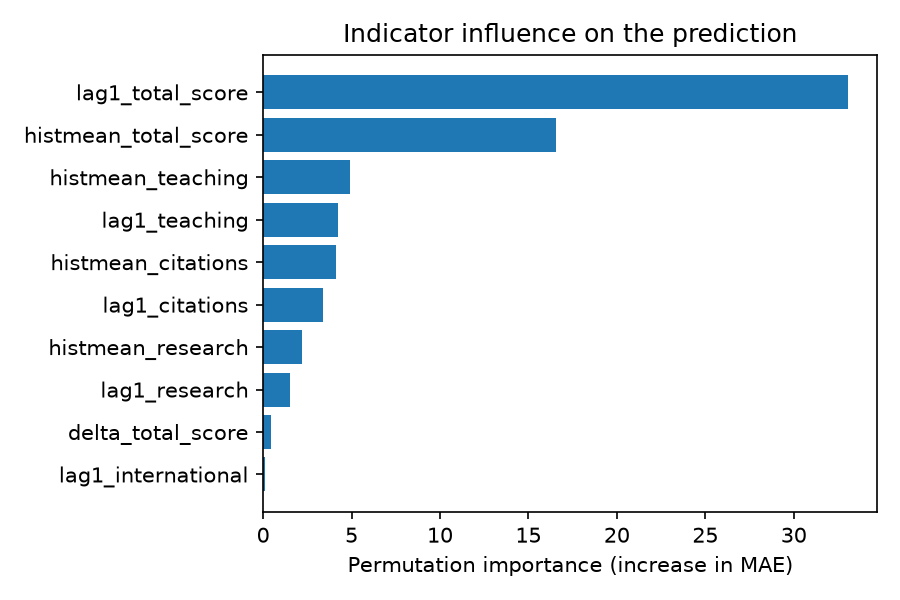
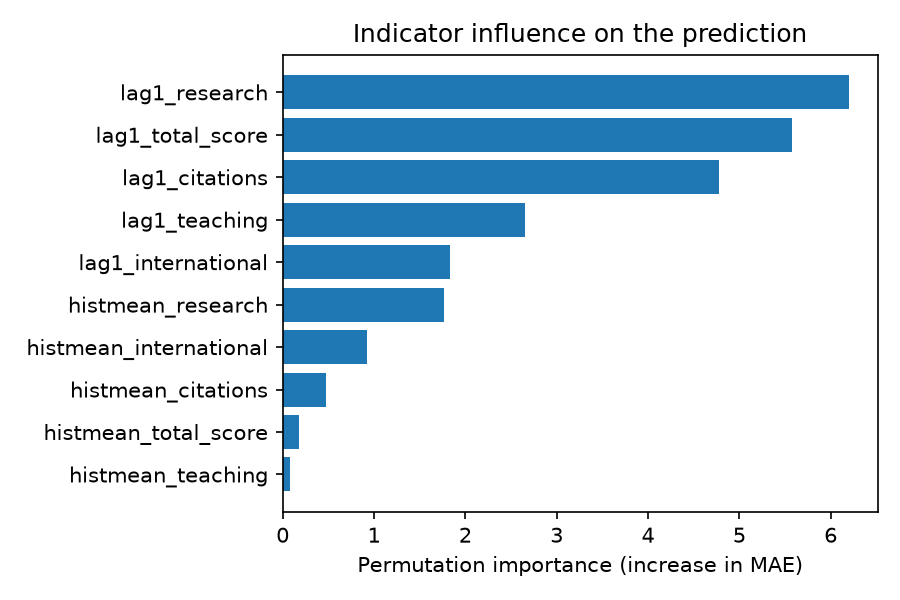
docs: results on real THE data and the year-shift lesson

diff --git a/README.md b/README.md
@@ -21,7 +21,7 @@ Software Development course, building on the project charter, plan (Assignment 1
 | Merge name variants, drop duplicates and rows without an overall score | `urps.data` | FR2 |
 | Validate the cleaned table against a declarative schema; stop on violation | `urps.schema` | NFR7 |
 | Build features **only from year t-1**: lags, yearly change, 3-year trend, historical mean | `urps.features` | FR3 |
-| Train a persistence baseline, linear regression and gradient boosting; temporal split | `urps.model` | FR4 |
+| Express scores relative to their year's average; train a persistence baseline, ridge regression and gradient boosting; temporal split | `urps.features`, `urps.model` | FR4 |
 | Report MAE, RMSE, R², R² of yearly change, 90% interval coverage; forecast next cycle with rank labels | `urps.pipeline` | FR5, FR7 |
 | Permutation importance and figures | `urps.viz` | FR8, FR6 |
 
@@ -66,11 +66,12 @@ urps run --data data/sample/the_rankings_sample.csv --out reports
 ```
 
 ```
-Test year 2025: best model = linear
-  persistence  MAE=0.962  RMSE=1.179  R2=0.995  R2 of yearly change=-0.003
-  linear       MAE=0.820  RMSE=1.008  R2=0.996  R2 of yearly change=+0.266
-  gbm          MAE=0.899  RMSE=1.110  R2=0.996  R2 of yearly change=+0.110
-MAE improvement over persistence baseline: 14.78%
+Test year 2025: best model = ridge
+Common shift of the score scale in the test year: +0.06 (removed)
+  persistence  MAE=0.958  rank error=4.9  Spearman=0.997  R2=0.995  R2 of yearly change=-0.000
+  ridge        MAE=0.816  rank error=4.4  Spearman=0.998  R2=0.996  R2 of yearly change=+0.275
+  gbm          MAE=0.886  rank error=4.6  Spearman=0.998  R2=0.996  R2 of yearly change=+0.140
+MAE improvement over persistence baseline: 14.8%
 ```
 
 > **Why is R² ≈ 0.99 even for the naive baseline?** Scores differ far more *between* universities
@@ -78,8 +79,27 @@ MAE improvement over persistence baseline: 14.78%
 > with predicting the average score of all universities, so simply repeating last year's score already
 > gives R² = 0.995. This is not leakage (see the leakage tests), but it means level R² says little about
 > skill. The pipeline therefore also reports **R² of yearly change**: the share of the actual
-> year-over-year change the model explains. The baseline scores ≈ 0 by construction; the linear model
-> explains about 27% of the change, which is the honest measure of what it adds.
+> year-over-year change the model explains. The baseline scores ≈ 0 by construction; the ridge model
+> explains about 27% of the change, which is the honest measure of what it adds. **Rank error** (how
+> many places a predicted position is off) and **Spearman** correlation measure what users care about.
+
+### Results on real data
+
+On the public Times Higher Education data 2011–2016 (`timesData.csv`, see [Data](#data)):
+
+| Test year | Common scale shift | Persistence MAE / rank error | Best model | Best MAE / rank error |
+|-----------|-------------------:|-----------------------------:|------------|----------------------:|
+| 2014 | −3.84 | 1.91 / 9.8 | persistence | — |
+| 2015 | +1.21 | 1.24 / 7.7 | persistence | — |
+| 2016 | +3.58 | 3.23 / 17.5 | ridge | 3.18 / 17.2 |
+
+Two lessons came from the real data. First, THE rescales scores between editions (and changed its
+methodology in 2016), shifting the **whole scale** by up to ±4 points. That shift is unpredictable and
+does not change anyone's position, so all scores are modeled **relative to the average of their year**;
+without this, every model was worse than the naive forecast (MAE 4.4–5.4 in 2016). Second, with about
+180 universities per year and only five year-to-year transitions, positions are so stable that the
+naive *same position as last year* forecast is very hard to beat. The pipeline therefore lets the
+baseline compete: when no model beats it on the held-out year, forecasts use it, and the dashboard says so.
 
 Forecast one university for the next, unpublished cycle:
 
@@ -91,10 +111,10 @@ urps predict --data data/sample/the_rankings_sample.csv --university "National F
 {
   "university": "National Fairhaven University",
   "year": 2026,
-  "predicted_score": 99.18,
-  "interval_90": [97.5, 100.0],
+  "predicted_score": 99.05,
+  "interval_90": [97.43, 100.0],
   "predicted_rank": "1",
-  "model": "linear",
+  "model": "ridge",
   "note": "Estimate based on public indicators, not a guarantee of the actual ranking."
 }
 ```
@@ -187,7 +207,7 @@ ruff, mypy, GitHub Actions. The reasoning (weighted decision matrix, alternative
 ## Limitations
 
 - The sample data is synthetic; real ranking methodologies change over time and need per-source normalisation.
-- Permutation importance of the linear model is inflated by strongly correlated features
+- Permutation importance is shared between strongly correlated features
   (e.g. last year's score and its historical mean); read it as a ranking of influence, not as effect sizes.
 - The 90% interval is estimated from one held-out calibration year and is approximate.
 - Not included yet (planned in the architecture of Assignment 2): MLflow tracking, DVC.

diff --git a/docs/technology-justification.md b/docs/technology-justification.md
@@ -31,7 +31,7 @@ Weighted decision matrix (score 1–5):
 |------|--------|-----|------------------------|
 | Tabular data | pandas | De-facto standard; groupby/merge make lag features explicit | Polars (faster, but unnecessary for this data size) |
 | Validation | pandera | Declarative schema in Python; fails fast on bad data (NFR7) | Great Expectations (heavier setup) |
-| Models | scikit-learn | One API for baseline, linear and gradient boosting; built-in permutation importance | XGBoost/LightGBM (extra dependency, no gain on small data) |
+| Models | scikit-learn | One API for baseline, ridge regression and gradient boosting; built-in permutation importance | XGBoost/LightGBM (extra dependency, no gain on small data) |
 | Figures | matplotlib | Static PNGs for reports, no server needed | Plotly (planned for the dashboard) |
 | CLI | argparse (stdlib) | No extra dependency for three sub-commands | Click, Typer |
 | Tests | pytest, pytest-cov, Hypothesis | Fixtures, parametrisation, coverage gate, property-based tests for scientific invariants | unittest |
@@ -40,10 +40,15 @@ Weighted decision matrix (score 1–5):
 | Version control | Git + GitHub | Distributed, standard; issues, PRs, branch protection, free Actions for public repos | GitLab, Bitbucket |
 | CI/CD | GitHub Actions | No infrastructure; integrated with pull requests; OS × Python matrix | GitLab CI, Jenkins |
 
-## An observation from the experiments
+## Observations from the experiments
 
-The architecture of Assignment 2 expected gradient boosting to be the final model. On the sample
-data the **linear model wins** (MAE 0.82 vs 0.90 for gradient boosting and 0.96 for the naive
-baseline). With a few thousand rows and features that are nearly linear in last year's values, a
-simple model generalises better. The pipeline therefore compares candidates and selects the best one
-on a held-out year, instead of hard-coding the model.
+The architecture of Assignment 2 expected gradient boosting to be the final model. On the synthetic
+sample the **regularized linear model (ridge) wins** (MAE 0.82 vs 0.89 for gradient boosting and 0.96
+for the naive baseline): with a few thousand rows and features that are nearly linear in last year's
+values, a simple model generalizes better. Plain least squares was replaced by ridge after it overfit
+badly on the real THE data (about 180 universities per year).
+
+On the real data, scores also had to be expressed relative to their year's average, because THE
+rescales the whole scale between editions, and the naive forecast turned out to be very hard to beat.
+The pipeline therefore compares all candidates, including the baseline, on a held-out year and uses
+the best one instead of hard-coding a model.

diff --git a/CHANGELOG.md b/CHANGELOG.md
@@ -14,8 +14,16 @@ The format follows [Keep a Changelog](https://keepachangelog.com/en/1.1.0/) and 
 - Optional dependency group `app` (streamlit, plotly).
 - Metric `r2_change` (R² of the predicted year-over-year change) in CLI, reports, dashboard and the
   CI quality gate, because level R² is near 1 even for the naive baseline.
+- Rank metrics: mean rank error and Spearman correlation.
+- Year-shift invariance test: moving every score of one year by a constant changes no feature or target.
 
 ### Changed
+- Scores are modeled relative to the average of their ranking year. On the real THE data the whole
+  scale moves by up to ±4 points between editions, which made every model worse than the naive forecast.
+- Plain linear regression replaced by ridge regression (`ridge`), which does not overfit on ~180
+  universities per year.
+- The naive baseline now competes in model selection; if no model beats it, forecasts use it and the
+  dashboard explains why.
 - Trends tab: universities are chosen with checkboxes in a searchable table instead of a multiselect
   dropdown that stayed open while picking; at most 8 lines are drawn.
 
